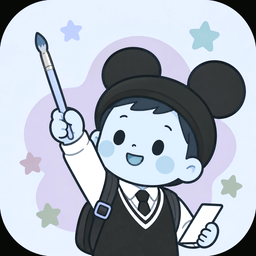
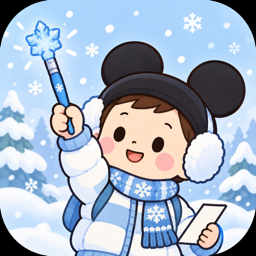
feat: add themed child mascot artwork

diff --git a/public/playroom.css b/public/playroom.css
@@ -338,46 +338,40 @@
   --ink: #315443; --muted: #587965; --green: #5d9b70; --green-soft: #dcefd8;
   --theme-bg: #e7f3df; --theme-header: #f2faec; --theme-panel: #e7f4df; --theme-rail: #d6ead0;
   --theme-surface: #fbfff8; --theme-control: #f5fced; --theme-hover: #d8efd0; --theme-selected: #c8e7bc;
-  --theme-border: #a8cfad; --theme-accent: #4d9363; --theme-strong: #39734e; --theme-classic-colors: #c5e0bd;
-  --brand-logo-filter: saturate(.86) hue-rotate(10deg) brightness(1.03); --brand-logo-ring: #79b48a;
+  --theme-border: #a8cfad; --theme-accent: #4d9363; --theme-strong: #39734e; --theme-classic-colors: #c5e0bd; --brand-logo-ring: #79b48a;
 }
 .playroom[data-theme="summer"] {
   --ink: #214b61; --muted: #4d7281; --green: #2b8ea0; --green-soft: #d5f0ef;
   --theme-bg: #d9f1f5; --theme-header: #eefcff; --theme-panel: #e2f4f5; --theme-rail: #c1e5ec;
   --theme-surface: #f7ffff; --theme-control: #effbfc; --theme-hover: #d0eff2; --theme-selected: #b7e1e7;
-  --theme-border: #94c9d3; --theme-accent: #23849a; --theme-strong: #17647b; --theme-classic-colors: #abd9e1;
-  --brand-logo-filter: saturate(1.04) hue-rotate(4deg) brightness(1.02); --brand-logo-ring: #4ca9be;
+  --theme-border: #94c9d3; --theme-accent: #23849a; --theme-strong: #17647b; --theme-classic-colors: #abd9e1; --brand-logo-ring: #4ca9be;
 }
 .playroom[data-theme="autumn"] {
-  --theme-classic-colors: #f0cfa1; --brand-logo-filter: none; --brand-logo-ring: #c79460;
+  --theme-classic-colors: #f0cfa1; --brand-logo-ring: #c79460;
 }
 .playroom[data-theme="winter"] {
   --ink: #304b68; --muted: #607b98; --green: #5a8db4; --green-soft: #dbeaf5;
   --theme-bg: #dcecf6; --theme-header: #f3faff; --theme-panel: #e6f2fa; --theme-rail: #c9e0ee;
   --theme-surface: #f8fcff; --theme-control: #f2f9fe; --theme-hover: #d9edf8; --theme-selected: #c7e2f2;
-  --theme-border: #a9c9dc; --theme-accent: #4d83aa; --theme-strong: #345f82; --theme-classic-colors: #bdd7e8;
-  --brand-logo-filter: saturate(.78) hue-rotate(175deg) brightness(1.06); --brand-logo-ring: #7ba9cc;
+  --theme-border: #a9c9dc; --theme-accent: #4d83aa; --theme-strong: #345f82; --theme-classic-colors: #bdd7e8; --brand-logo-ring: #7ba9cc;
 }
 .playroom[data-theme="mechanical"] {
   --ink: #29333c; --muted: #64717a; --green: #628593; --green-soft: #d7e2e5;
   --theme-bg: #d4dce0; --theme-header: #eaf0f2; --theme-panel: #dce5e8; --theme-rail: #bccbd1;
   --theme-surface: #f3f7f8; --theme-control: #e7eef0; --theme-hover: #d0e0e4; --theme-selected: #bfd4da;
-  --theme-border: #9eafb7; --theme-accent: #557b87; --theme-strong: #3d5c67; --theme-classic-colors: #a9bac0;
-  --brand-logo-filter: grayscale(.22) saturate(.76) contrast(1.06); --brand-logo-ring: #718b95;
+  --theme-border: #9eafb7; --theme-accent: #557b87; --theme-strong: #3d5c67; --theme-classic-colors: #a9bac0; --brand-logo-ring: #718b95;
 }
 .playroom[data-theme="space"] {
   --ink: #e7edf9; --muted: #aab9d4; --green: #8e9fe0; --green-soft: #2d3964;
   --theme-bg: #111a3a; --theme-header: #1b2850; --theme-panel: #1b2a50; --theme-rail: #202f5d;
   --theme-surface: #202d55; --theme-control: #2b3a68; --theme-hover: #354878; --theme-selected: #465c91;
-  --theme-border: #6074a9; --theme-accent: #a4b5ff; --theme-strong: #c2ccff; --theme-classic-colors: #151f43;
-  --brand-logo-filter: saturate(1.08) hue-rotate(18deg) brightness(.92) contrast(1.08); --brand-logo-ring: #a4b5ff;
+  --theme-border: #6074a9; --theme-accent: #a4b5ff; --theme-strong: #c2ccff; --theme-classic-colors: #151f43; --brand-logo-ring: #a4b5ff;
 }
 .playroom[data-theme="ocean"] {
   --ink: #214f55; --muted: #527d80; --green: #3a9b91; --green-soft: #d3f0e8;
   --theme-bg: #c9e9e5; --theme-header: #e8faf7; --theme-panel: #d5efeb; --theme-rail: #a9d7d2;
   --theme-surface: #f3fffc; --theme-control: #e8faf6; --theme-hover: #c9ebe4; --theme-selected: #b5ded7;
-  --theme-border: #8fc3ba; --theme-accent: #2d8e86; --theme-strong: #1e665f; --theme-classic-colors: #9bcfc7;
-  --brand-logo-filter: saturate(.92) hue-rotate(12deg) brightness(1.02); --brand-logo-ring: #54a89f;
+  --theme-border: #8fc3ba; --theme-accent: #2d8e86; --theme-strong: #1e665f; --theme-classic-colors: #9bcfc7; --brand-logo-ring: #54a89f;
 }
 
 .playroom[data-theme] .theme-entry {
@@ -392,7 +386,7 @@
   border: 2px solid var(--brand-logo-ring, var(--theme-border));
   border-radius: 16px;
   box-shadow: 0 3px 0 var(--theme-shadow);
-  filter: var(--brand-logo-filter, none);
+  filter: none;
 }
 .playroom[data-theme] .header-actions .theme-entry > .playful-icon {
   width: calc(32px * var(--u));
@@ -523,7 +517,7 @@
 #close-dialog .dialog-actions{display:grid;grid-template-columns:repeat(3,minmax(0,1fr));gap:12px}
 #close-dialog button{min-height:88px;display:flex;flex-direction:column;align-items:center;justify-content:center;gap:8px;white-space:normal}
 #close-dialog .playful-icon{width:38px;height:38px}
-.playroom .about-dialog{width:min(420px,calc(100vw - 36px));text-align:center;padding:28px 28px 20px}.playroom .about-dialog h2{margin:8px 0 4px;font-size:30px}.playroom .about-mark{width:82px;height:82px;margin:0 auto 6px;display:grid;place-items:center;border:3px solid #d29a64;border-radius:28px;background:#ffe2a8;box-shadow:0 5px 0 #b9764d33;overflow:hidden}.playroom .about-mark img{width:100%;height:100%;object-fit:cover;filter:var(--brand-logo-filter,none)}.playroom .about-mark .about-theme-icon{display:block}.playroom .about-version{margin:0 0 8px;color:#936b4b}.playroom .about-links{display:flex;flex-direction:row;justify-content:center;align-items:center;gap:2px;margin:0 0 12px}.playroom .about-links-sep{color:#c89a6d;font-weight:700;margin:0 8px;pointer-events:none}.playroom .about-links a{color:#8b4d31;font-weight:650;text-decoration:underline;text-underline-offset:4px;display:inline-flex;align-items:center;min-height:32px;padding:0 6px;border-radius:8px;cursor:pointer;transition:color 160ms ease,background 160ms ease,transform 160ms ease}.playroom .about-links a:active{transform:scale(.97)}.playroom .about-links a:focus-visible{outline:3px solid #a55339;outline-offset:2px}.playroom .about-credit{margin:0;color:#9a6d52;font-size:13px;font-weight:600;letter-spacing:.05em;line-height:1.55}.playroom .about-dialog .dialog-actions{justify-content:center;margin-top:16px}
+.playroom .about-dialog{width:min(420px,calc(100vw - 36px));text-align:center;padding:28px 28px 20px}.playroom .about-dialog h2{margin:8px 0 4px;font-size:30px}.playroom .about-mark{width:82px;height:82px;margin:0 auto 6px;display:grid;place-items:center;border:3px solid #d29a64;border-radius:28px;background:#ffe2a8;box-shadow:0 5px 0 #b9764d33;overflow:hidden}.playroom .about-mark img{width:100%;height:100%;object-fit:cover;filter:none}.playroom .about-mark .about-theme-icon{display:block}.playroom .about-version{margin:0 0 8px;color:#936b4b}.playroom .about-links{display:flex;flex-direction:row;justify-content:center;align-items:center;gap:2px;margin:0 0 12px}.playroom .about-links-sep{color:#c89a6d;font-weight:700;margin:0 8px;pointer-events:none}.playroom .about-links a{color:#8b4d31;font-weight:650;text-decoration:underline;text-underline-offset:4px;display:inline-flex;align-items:center;min-height:32px;padding:0 6px;border-radius:8px;cursor:pointer;transition:color 160ms ease,background 160ms ease,transform 160ms ease}.playroom .about-links a:active{transform:scale(.97)}.playroom .about-links a:focus-visible{outline:3px solid #a55339;outline-offset:2px}.playroom .about-credit{margin:0;color:#9a6d52;font-size:13px;font-weight:600;letter-spacing:.05em;line-height:1.55}.playroom .about-dialog .dialog-actions{justify-content:center;margin-top:16px}
 
 /* Keep the canvas interaction model clear and prevent accidental page selection. */
 .playroom, .playroom * { user-select: none; -webkit-user-select: none; }
@@ -2096,4 +2090,57 @@
   .playroom .assist-axes-row { margin-top: 4px; }
   .playroom .assist-form label.assist-check { min-height: 32px; }
   .playroom .assist-note { margin-top: 4px; }
+}
+
+/* v1.10.5: keep the mascot legible without letting it dominate the chrome.
+   The source artwork remains a square image; only its presentation changes.
+   Compact sizes still show a small mark so the themed brand is available on
+   narrow windows, while the canvas keeps the rest of the space. */
+.playroom .brand {
+  min-width: clamp(112px, 12vw, 136px);
+}
+.playroom[data-theme] .brand > .brand-icon {
+  display: block;
+  width: 42px;
+  height: 42px;
+  border-width: 2px;
+  border-radius: 12px;
+  box-shadow: 0 2px 0 var(--theme-shadow);
+}
+.playroom .about-mark {
+  width: 68px;
+  height: 68px;
+  border-width: 2px;
+  border-radius: 20px;
+  box-shadow: 0 3px 0 var(--theme-shadow, #b9764d33);
+}
+.playroom .about-mark img {
+  width: calc(100% - 4px);
+  height: calc(100% - 4px);
+  border-radius: 17px;
+}
+
+/* Each theme now points to its own illustrated mascot asset. Never tint the
+   generated art again: the clothes, brush, props and backdrop are already
+   authored for that theme. */
+.playroom[data-theme] .brand > .brand-icon,
+.playroom[data-theme] .about-mark img { filter: none; }
+
+@media (max-width: 980px) {
+  .playroom .brand { min-width: 92px; }
+  .playroom[data-theme] .brand > .brand-icon { width: 34px; height: 34px; border-radius: 10px; }
+}
+@media (max-width: 640px), (max-height: 500px) {
+  .playroom .brand { min-width: 50px; }
+  .playroom .brand > .brand-icon,
+  .playroom[data-theme] .brand > .brand-icon { display: block; width: 28px; height: 28px; border-radius: 8px; border-width: 1px; }
+  .playroom .brand { gap: 4px; }
+  .playroom .about-mark { width: 60px; height: 60px; border-radius: 16px; }
+  .playroom .about-mark img { border-radius: 13px; }
+}
+@media (max-width: 380px) {
+  .playroom .brand { min-width: 42px; }
+  .playroom .brand > .brand-icon,
+  .playroom[data-theme] .brand > .brand-icon { width: 24px; height: 24px; }
+  .playroom .about-mark { width: 56px; height: 56px; }
 }

diff --git a/src/classic-ui.js b/src/classic-ui.js
@@ -88,7 +88,7 @@ export function mountClassic({setTool,getColor,setColor,clearAnimations}){
   for(const [id,icon,label] of [['mode-board','paper','画板'],['darkroom','board-filter','暗房'],['mode-library','forest','图库']])el(id).innerHTML=playfulIcon(icon)+'<span>'+label+'</span>';
   const library=document.querySelector('.right-panel');dock.prepend(library);document.querySelector('.panel-heading h2').textContent='灵感百宝箱';
   const layer=el('layer-menu');layer.innerHTML=playfulIcon('layers')+'<span>我的图层</span>';footer.append(layer);const newPaper=el('new');newPaper.innerHTML=playfulIcon('new-paper')+'<span>新画纸</span>';footer.append(newPaper);
-  const more=document.createElement('dialog');more.id='more-dialog';more.className='wide-dialog';more.innerHTML='<h2>设置</h2><div class="more-actions"></div><div class="dialog-actions"><button id="more-done">返回画纸</button></div>';document.body.append(more);const actions=more.querySelector('.more-actions');const paperSize=document.createElement('button');paperSize.id='paper-size-open';paperSize.type='button';paperSize.innerHTML=playfulIcon('paper')+'<span>画纸尺寸</span>';actions.append(paperSize);for(const id of ['copy','cut','paste','selection-menu','recordings','import-image'])actions.append(el(id));const aboutButton=document.createElement('button');aboutButton.id='about-open';aboutButton.type='button';aboutButton.innerHTML=playfulIcon('palette')+'<span>关于</span>';actions.append(aboutButton);actions.addEventListener('click',()=>more.close(),true);el('more-done').onclick=()=>more.close();const about=document.createElement('dialog');about.id='about-dialog';about.className='about-dialog';const originalAboutIcon=window.LUOYE_PLATFORM==='windows'?'branding/app-icon-windows.png':'branding/app-icon.png';about.innerHTML=`<div class="about-mark" aria-hidden="true">${brandIcon(document.body.dataset.theme||'autumn',{slot:'about',src:originalAboutIcon})}</div><h2>落叶画板</h2><p class="about-version">版本 <strong id="about-version">开发版</strong></p><p class="about-links"><a href="https://github.com/zxxf18/luoye-artboard" target="_blank" rel="noopener noreferrer">项目地址</a><span class="about-links-sep" aria-hidden="true">·</span><a href="https://index.yebuluo.com.cn/donate/" target="_blank" rel="noopener noreferrer">支持作者</a></p><p class="about-credit">Powered by ZX</p><p class="about-credit">For WenHe</p><div class="dialog-actions"><button id="about-close" class="primary" autofocus>返回画纸</button></div>`;document.body.append(about);about.querySelector('#about-version').textContent=window.LUOYE_VERSION||'开发版';aboutButton.onclick=()=>about.showModal();about.querySelector('#about-close').onclick=()=>about.close();document.addEventListener('themechange',event=>{const icon=about.querySelector('.about-mark');const current=icon?.querySelector('.about-theme-icon');if(icon&&current)current.outerHTML=brandIcon(event.detail?.theme||document.body.dataset.theme||'autumn',{slot:'about',src:originalAboutIcon});});
+  const more=document.createElement('dialog');more.id='more-dialog';more.className='wide-dialog';more.innerHTML='<h2>设置</h2><div class="more-actions"></div><div class="dialog-actions"><button id="more-done">返回画纸</button></div>';document.body.append(more);const actions=more.querySelector('.more-actions');const paperSize=document.createElement('button');paperSize.id='paper-size-open';paperSize.type='button';paperSize.innerHTML=playfulIcon('paper')+'<span>画纸尺寸</span>';actions.append(paperSize);for(const id of ['copy','cut','paste','selection-menu','recordings','import-image'])actions.append(el(id));const aboutButton=document.createElement('button');aboutButton.id='about-open';aboutButton.type='button';aboutButton.innerHTML=playfulIcon('palette')+'<span>关于</span>';actions.append(aboutButton);actions.addEventListener('click',()=>more.close(),true);el('more-done').onclick=()=>more.close();const about=document.createElement('dialog');about.id='about-dialog';about.className='about-dialog';about.innerHTML=`<div class="about-mark" aria-hidden="true">${brandIcon(document.body.dataset.theme||'autumn',{slot:'about'})}</div><h2>落叶画板</h2><p class="about-version">版本 <strong id="about-version">开发版</strong></p><p class="about-links"><a href="https://github.com/zxxf18/luoye-artboard" target="_blank" rel="noopener noreferrer">项目地址</a><span class="about-links-sep" aria-hidden="true">·</span><a href="https://index.yebuluo.com.cn/donate/" target="_blank" rel="noopener noreferrer">支持作者</a></p><p class="about-credit">Powered by ZX</p><p class="about-credit">For WenHe</p><div class="dialog-actions"><button id="about-close" class="primary" autofocus>返回画纸</button></div>`;document.body.append(about);about.querySelector('#about-version').textContent=window.LUOYE_VERSION||'开发版';aboutButton.onclick=()=>about.showModal();about.querySelector('#about-close').onclick=()=>about.close();document.addEventListener('themechange',event=>{const icon=about.querySelector('.about-mark');const current=icon?.querySelector('.about-theme-icon');if(icon&&current)current.outerHTML=brandIcon(event.detail?.theme||document.body.dataset.theme||'autumn',{slot:'about'});});
   const titleDialog=document.createElement('dialog');titleDialog.id='title-dialog';titleDialog.innerHTML='<h2>给画起个名字</h2><div class="dialog-actions"><button id="title-done" class="primary">就叫这个</button></div>';titleDialog.querySelector('h2').after(document.querySelector('.document-name'));document.body.append(titleDialog);const rename=document.createElement('button');rename.textContent='给画起名字';rename.onclick=()=>titleDialog.showModal();actions.append(rename);actions.append(aboutButton);el('title-done').onclick=()=>titleDialog.close();
   const header=document.querySelector('.header-actions');header.prepend(el('new-quick'),el('undo'),el('redo'));for(const [id,icon,name] of [['undo','undo','撤销'],['redo','redo','重做'],['new-quick','new-paper','新画纸'],['reset-settings','reset-settings','重置'],['open','folder','打开'],['save','save','保存'],['export','download','导出'],['gallery','folder','画夹']]){el(id).innerHTML=playfulIcon(icon)+`<span>${name}</span>`;el(id).className='header-command';}
   const moreButton=document.createElement('button');moreButton.id='more-open';moreButton.className='header-command';moreButton.innerHTML=playfulIcon('more')+'<span>设置</span>';moreButton.onclick=()=>more.showModal();header.append(moreButton);
@@ -141,8 +141,7 @@ export function mountClassic({setTool,getColor,setColor,clearAnimations}){
   mobileScrim.onclick=()=>setMobilePanel('focus');
   window.addEventListener('resize',syncMobileLayout);document.addEventListener('keydown',event=>{if(event.key==='Escape'&&narrowWindow&&document.body.dataset.mobilePanel!=='focus')setMobilePanel('focus');});
   syncMobileLayout();
-  const brandSource=window.LUOYE_PLATFORM==='windows'?'branding/app-icon-windows.png':'branding/app-icon.png';
-  document.querySelector('.brand').innerHTML=brandIcon(document.body.dataset.theme||'autumn',{src:brandSource})+'<span><strong>落叶画板</strong><small>我的暖暖画室</small></span>';
+  document.querySelector('.brand').innerHTML=brandIcon(document.body.dataset.theme||'autumn')+'<span><strong>落叶画板</strong><small>我的暖暖画室</small></span>';
   const layerDialog=el('layer-dialog');layerDialog.querySelector('h2').textContent='我的图层';
   const help=document.createElement('p');help.className='layer-guide';help.textContent='每张小卡片都是画里的一部分。先点卡片，再移动或调整它。上面的会挡住下面的，背景一直在最下面。';
   layerDialog.querySelector('h2').after(help,document.querySelector('.layers-panel'));

diff --git a/tests/theme.js b/tests/theme.js
@@ -123,7 +123,7 @@ for (const [width, height] of [[1280, 720], [568, 320], [375, 240], [2560, 1440]
     const history = doc.querySelector('#foreground-history')?.innerHTML;
     const brandIcon = themedIcon(doc, '.brand .brand-icon-svg, .brand .brand-icon, .brand [data-brand-icon]');
     assert(brandIcon && visible(brandIcon), '左上缺少独立应用图标');
-    assert(brandIcon.tagName === 'IMG' && /branding\/app-icon(?:-windows)?\.png$/.test(brandIcon.getAttribute('src') || ''), '左上未使用卡通小孩 logo');
+    assert(brandIcon.tagName === 'IMG' && /branding\/themes\/app-icon-(spring|summer|autumn|winter|mechanical|space|ocean)(?:-windows)?\.png$/.test(brandIcon.getAttribute('src') || ''), '左上未使用卡通小孩主题 logo');
     assert(!brandIcon.closest('.theme-scene'), '主题动效不应替换左上应用图标');
     const brandSignature = iconSignature(brandIcon);
     const aboutVariants = [];
@@ -148,7 +148,9 @@ for (const [width, height] of [[1280, 720], [568, 320], [375, 240], [2560, 1440]
       assert(!doc.querySelector('.theme-decoration'), '不应存在全屏主题装饰层');
       const currentBrandIcon = themedIcon(doc, '.brand .brand-icon-svg, .brand .brand-icon, .brand [data-brand-icon]');
       assert(currentBrandIcon && !currentBrandIcon.closest('.theme-scene'), `左上图标被主题动效替换：${id}`);
-      assert(JSON.stringify(iconSignature(currentBrandIcon)) === JSON.stringify(brandSignature), `主题切换改变左上图标结构：${id}`);
+      const currentBrandSignature = iconSignature(currentBrandIcon);
+      assert(currentBrandSignature.tag === brandSignature.tag && currentBrandSignature.width === brandSignature.width && currentBrandSignature.height === brandSignature.height, `主题切换改变左上图标尺寸：${id}`);
+      assert(/branding\/themes\/app-icon-(spring|summer|autumn|winter|mechanical|space|ocean)(?:-windows)?\.png$/.test(currentBrandSignature.source), `主题没有切换 Logo 资源：${id}`);
       assert(inside(currentBrandIcon, doc.querySelector('.app-header')), `主题图标超出顶部栏边界：${id}`);
       const residuals = themedControlResiduals(doc);
       assert(!residuals.length, `主题 ${id} 仍有未换肤的暖黄色控件：${residuals.slice(0, 4).map(node => node.id || node.className).join(', ')}`);
@@ -169,7 +171,7 @@ for (const [width, height] of [[1280, 720], [568, 320], [375, 240], [2560, 1440]
     }
     assert(new Set(aboutVariants).size >= 2, '关于图标没有随主题更换视觉配色');
     for (const signature of aboutSignatures) {
-      assert(signature && signature.tag === 'IMG' && /branding\/app-icon(?:-windows)?\.png$/.test(signature.source), '关于主题图标不是卡通小孩资源');
+      assert(signature && signature.tag === 'IMG' && /branding\/themes\/app-icon-(spring|summer|autumn|winter|mechanical|space|ocean)(?:-windows)?\.png$/.test(signature.source), '关于主题图标不是卡通小孩主题资源');
       assert(signature.width > 0 && signature.height > 0, '关于主题图标没有可见尺寸');
     }
     doc.querySelector('#theme-done').click();

diff --git a/src/playful-icons.js b/src/playful-icons.js
@@ -62,14 +62,14 @@ art['shrink']='<circle cx="27" cy="29" r="17" fill="#b8d7ae"/><circle cx="22" cy
 const faces={eraser:[34,37],fill:[28,39],stamp:[32,43],tube:[33,34],spray:[32,40],text:[33,38],paper:[30,43],folder:[31,42]};
 export function playfulIcon(name){return `<svg viewBox="0 0 68 68" class="playful-icon" aria-hidden="true" focusable="false"><g transform="translate(2 1)" stroke="#705142" stroke-width="2.3" stroke-linejoin="round" stroke-linecap="round">${art[name]||art.palette}${faces[name]?`<g transform="translate(${faces[name][0]} ${faces[name][1]})"><ellipse cx="-5" cy="0" rx="1.7" ry="2.3" fill="#684438" stroke="none"/><ellipse cx="5" cy="0" rx="1.7" ry="2.3" fill="#684438" stroke="none"/><path d="M-4 5q4 5 8 0" stroke-width="1.5" fill="none"/><circle cx="-9" cy="4" r="2.5" fill="#e7978e" stroke="none"/><circle cx="9" cy="4" r="2.5" fill="#e7978e" stroke="none"/></g>`:''}</g></svg>`;}
 
-// The product mark is the illustrated child holding a brush. Keep one source
-// image for all themes so the logo remains recognizable and browser caching
-// keeps theme switching cheap; theme-specific framing and a restrained filter
-// are applied by playroom.css.
+// The product mark is the illustrated child holding a brush. Each theme has a
+// small cached 256px variant so the outfit, props, brush and backdrop can
+// change without applying destructive filters to the character.
 export function brandIcon(theme = 'autumn', { slot = 'brand', src } = {}) {
   const platform = typeof globalThis !== 'undefined' && globalThis.LUOYE_PLATFORM === 'windows' ? 'windows' : 'mac';
-  const source = src || (platform === 'windows' ? 'branding/app-icon-windows.png' : 'branding/app-icon.png');
+  const themeId = ['spring', 'summer', 'autumn', 'winter', 'mechanical', 'space', 'ocean'].includes(theme) ? theme : 'autumn';
+  const source = src || `branding/themes/app-icon-${themeId}${platform === 'windows' ? '-windows' : ''}.png`;
   const slotClass = slot === 'about' ? ' about-theme-icon' : '';
   const alt = slot === 'about' ? '落叶画板主题图标' : '落叶画板应用图标';
-  return `<img src="${source}" class="playful-icon brand-icon brand-logo brand-logo-${theme}${slotClass}" data-theme-logo="${theme}" alt="${alt}" aria-hidden="true" draggable="false">`;
+  return `<img src="${source}" class="playful-icon brand-icon brand-logo brand-logo-${themeId}${slotClass}" data-theme-logo="${themeId}" alt="${alt}" aria-hidden="true" draggable="false">`;
 }

diff --git a/tests/brand-icon.test.js b/tests/brand-icon.test.js
@@ -7,15 +7,18 @@ const themes = ['spring', 'summer', 'autumn', 'winter', 'mechanical', 'space', '
 test('brand icon uses the illustrated child logo for every theme', () => {
   const images = themes.map(theme => brandIcon(theme));
   assert.ok(images.every(icon => icon.startsWith('<img ')));
-  assert.ok(images.every(icon => icon.includes('src="branding/app-icon.png"')));
+  assert.ok(images.every(icon => icon.includes('src="branding/themes/app-icon-')));
   assert.ok(images.every(icon => icon.includes('class="playful-icon brand-icon brand-logo')));
+  assert.ok(images.every(icon => icon.includes('.png"')));
   assert.equal(new Set(images.map(icon => icon.match(/brand-logo-([a-z]+)/)?.[1])).size, themes.length);
 });
 
 test('about icon keeps a dedicated slot and platform source', () => {
   const icons = themes.map(theme => brandIcon(theme, { slot: 'about' }));
   assert.ok(icons.every(icon => icon.includes('about-theme-icon')));
-  assert.ok(icons.every(icon => icon.includes('src="branding/app-icon.png"')));
+  assert.ok(icons.every(icon => icon.includes('src="branding/themes/app-icon-')));
   assert.ok(icons.every(icon => icon.includes('data-theme-logo=')));
-  assert.match(brandIcon('spring', { slot: 'about', src: 'branding/app-icon-windows.png' }), /src="branding\/app-icon-windows\.png"/);
+  globalThis.LUOYE_PLATFORM = 'windows';
+  assert.match(brandIcon('spring', { slot: 'about' }), /src="branding\/themes\/app-icon-spring-windows\.png"/);
+  delete globalThis.LUOYE_PLATFORM;
 });

diff --git a/tests/theme.test.js b/tests/theme.test.js
@@ -78,14 +78,14 @@ test('brand and about use the illustrated child logo with dedicated theme slots'
   assert.match(classic, /about-mark/);
   assert.match(classic, /brandIcon\(/);
   assert.match(classic, /themechange/);
-  assert.match(classic, /app-icon-windows\.png/);
   assert.match(theme, /brand-icon(?:-svg)?|about-theme-icon/);
   assert.match(theme, /themechange/);
   assert.match(icons, /theme:/);
   assert.match(icons, /export function brandIcon/);
-  assert.match(icons, /branding\/app-icon(?:-windows)?\.png/);
-  assert.match(styles, /--brand-logo-filter/);
-  assert.match(styles, /\.about-mark img[^{]*\{[^}]*filter:var\(--brand-logo-filter/);
+  assert.match(icons, /branding\/themes\/app-icon-\$\{themeId\}/);
+  assert.match(icons, /-windows/);
+  assert.match(icons, /\.png/);
+  assert.match(styles, /\.about-mark img[^{]*\{[^}]*filter:none/);
   // The true color controls carry explicit classes so global theme selectors
   // cannot overwrite their inline values.
   assert.match(palette, /color-value-control/);

diff --git a/src/theme-ui.js b/src/theme-ui.js
@@ -90,8 +90,7 @@ export function mountTheme() {
     const brand = document.querySelector('.brand');
     if (!brand) return;
     const currentIcon = brand.querySelector('.brand-icon, .playful-icon:not(.theme-scene)');
-    const src = currentIcon?.getAttribute('src') || (window.LUOYE_PLATFORM === 'windows' ? 'branding/app-icon-windows.png' : 'branding/app-icon.png');
-    const icon = brandIcon(theme, { src });
+    const icon = brandIcon(theme);
     if (currentIcon) currentIcon.outerHTML = icon;
     else brand.insertAdjacentHTML('afterbegin', icon);
     const currentScene = brand.querySelector('.theme-scene');

diff --git a/public/branding/themes/README.md b/public/branding/themes/README.md
@@ -1,6 +1,6 @@
 # 主题 Logo 变体
 
-这些文件保留原始「小孩举画笔」插画，仅对整体色调和对比度做主题化处理，用于左上角品牌和关于页。所有文件为 256×256 PNG，适合 34–56px 的界面显示；原始高分辨率 Logo 仍保留在上一级目录，不被替换。
+这些文件以原始「小孩举画笔」插画为角色参考，按主题重新绘制服装、装备、画笔和背景，用于左上角品牌和关于页。秋季使用原始 Logo，其余主题是同构的主题插画。所有文件为 256×256 PNG，适合 24–68px 的界面显示；原始高分辨率 Logo 仍保留在上一级目录，不被替换。
 
 | 主题 | mac | Windows |
 | --- | --- | --- |
@@ -12,4 +12,4 @@
 | 宇宙 | `app-icon-space.png` | `app-icon-space-windows.png` |
 | 海洋 | `app-icon-ocean.png` | `app-icon-ocean-windows.png` |
 
-生成基于对应平台原始 PNG，使用 ffmpeg 缩放与主题色调映射，单个文件约 55–80KB，避免主题切换引入大体积资源或网络请求。
+主题插画使用本地生成资源并缩放为 256px，单个文件约 55–100KB；主题切换只替换本地图片 URL，不引入网络请求。Windows 与 macOS WebView 使用同一套主题构图，平台原生图标文件不变。
